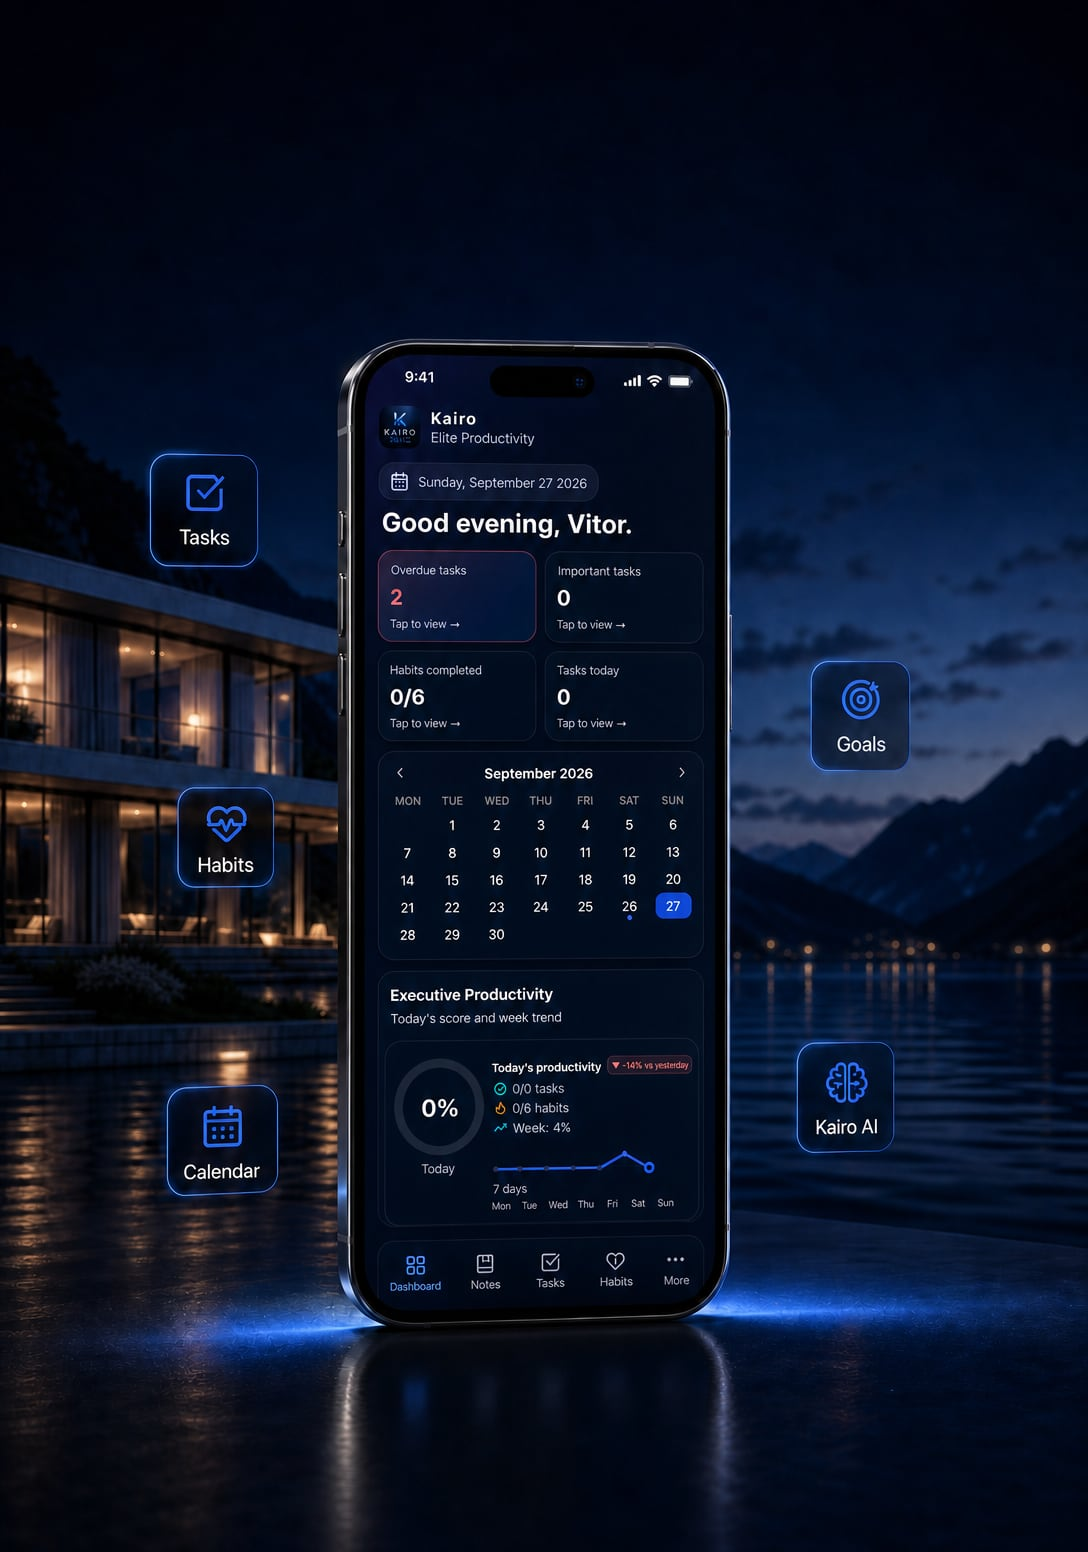
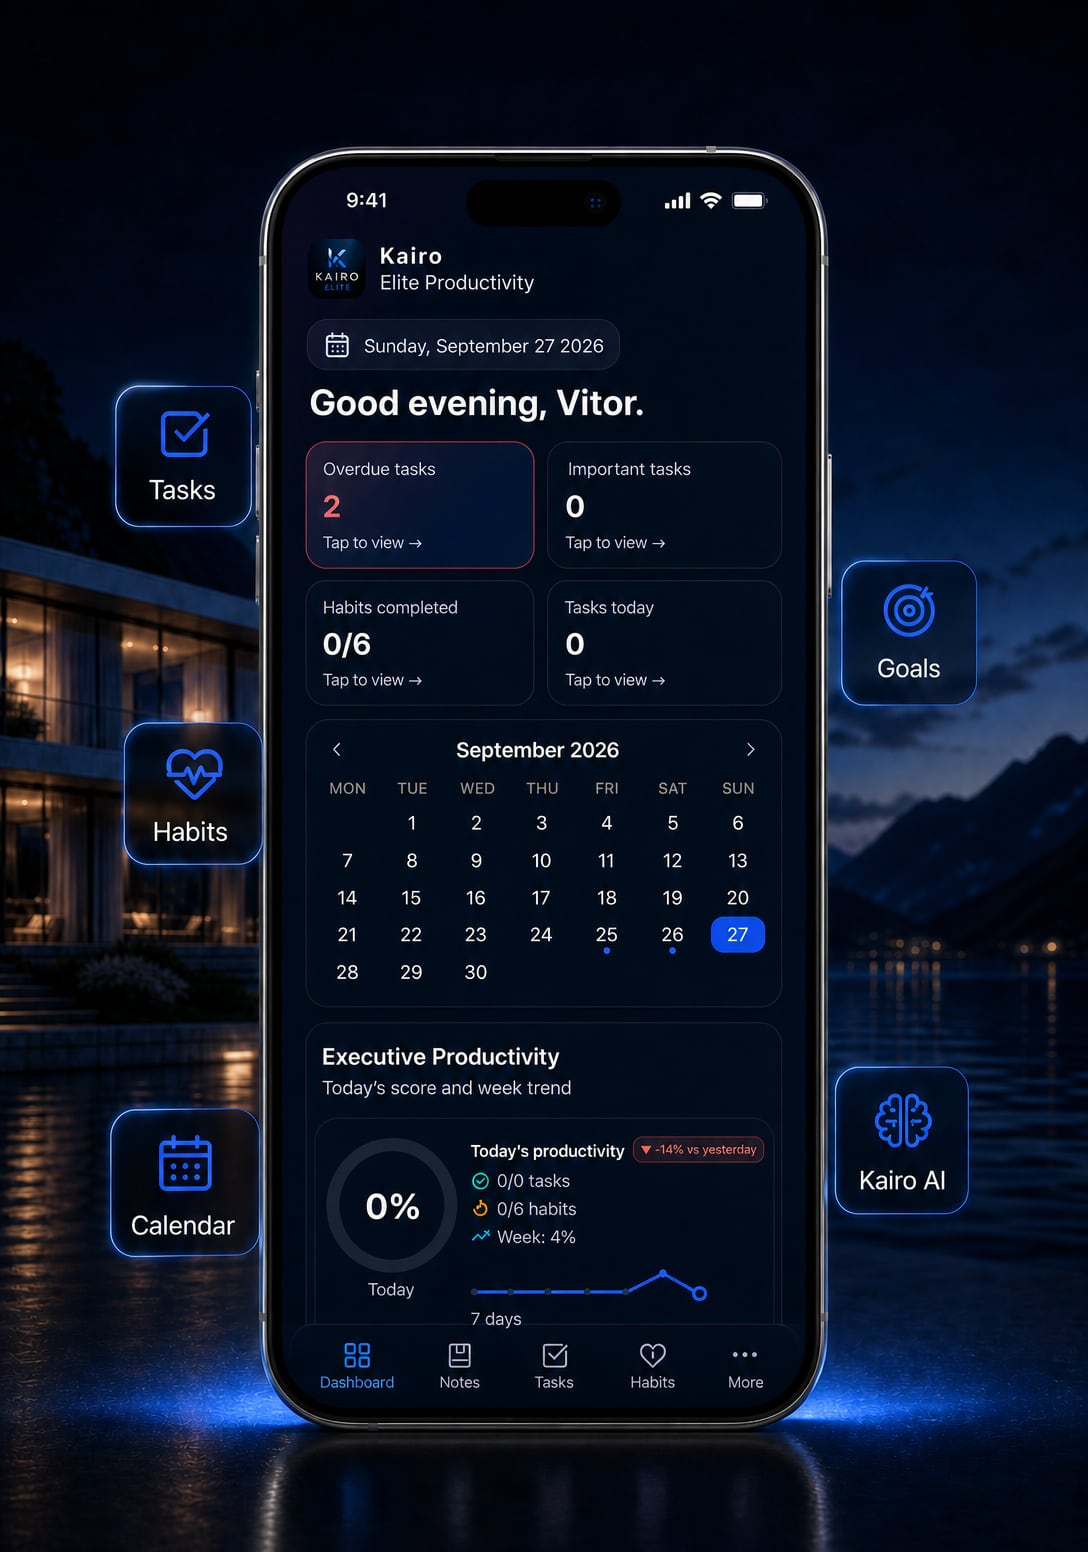
hero-mobile-bigger-iphone

diff --git a/index.html b/index.html
@@ -478,7 +478,7 @@
       #hero .hero-eyebrow { margin-bottom: 20px; }
       #hero .hero-headline { font-size: clamp(2.4rem, 10.5vw, 3.4rem); margin-bottom: 14px; }
       #hero .hero-desc { margin-bottom: 0; font-size: 0.97rem; max-width: 400px; }
-      .hero-mobile-visual { display: block; margin: 28px auto 0; max-width: 400px; }
+      .hero-mobile-visual { display: block; width: calc(100% + 32px); margin: 24px -16px 0; max-width: 520px; }
       .hero-mobile-visual img { width: 100%; height: auto; display: block; border-radius: 26px; border: 1px solid rgba(120,170,255,0.14); box-shadow: 0 30px 80px rgba(0,0,0,0.55), 0 0 60px rgba(22,139,255,0.10); }
       #hero .hero-ctas { position: static; transform: none; margin-top: 26px; padding: 0; background: transparent; border: none; backdrop-filter: none; flex-direction: column; align-items: stretch; gap: 12px; max-width: 400px; margin-left: auto; margin-right: auto; width: 100%; }
       #hero .hero-ctas .btn { justify-content: center; }

diff --git a/landing-en.html b/landing-en.html
@@ -478,7 +478,7 @@
       #hero .hero-eyebrow { margin-bottom: 20px; }
       #hero .hero-headline { font-size: clamp(2.4rem, 10.5vw, 3.4rem); margin-bottom: 14px; }
       #hero .hero-desc { margin-bottom: 0; font-size: 0.97rem; max-width: 400px; }
-      .hero-mobile-visual { display: block; margin: 28px auto 0; max-width: 400px; }
+      .hero-mobile-visual { display: block; width: calc(100% + 32px); margin: 24px -16px 0; max-width: 520px; }
       .hero-mobile-visual img { width: 100%; height: auto; display: block; border-radius: 26px; border: 1px solid rgba(120,170,255,0.14); box-shadow: 0 30px 80px rgba(0,0,0,0.55), 0 0 60px rgba(22,139,255,0.10); }
       #hero .hero-ctas { position: static; transform: none; margin-top: 26px; padding: 0; background: transparent; border: none; backdrop-filter: none; flex-direction: column; align-items: stretch; gap: 12px; max-width: 400px; margin-left: auto; margin-right: auto; width: 100%; }
       #hero .hero-ctas .btn { justify-content: center; }

diff --git a/sw.js b/sw.js
@@ -1,4 +1,4 @@
-const CACHE_NAME = "kairo-v5";
+const CACHE_NAME = "kairo-v6";
 const PRECACHE_ASSETS = [
   "./",
   "./index.html",
